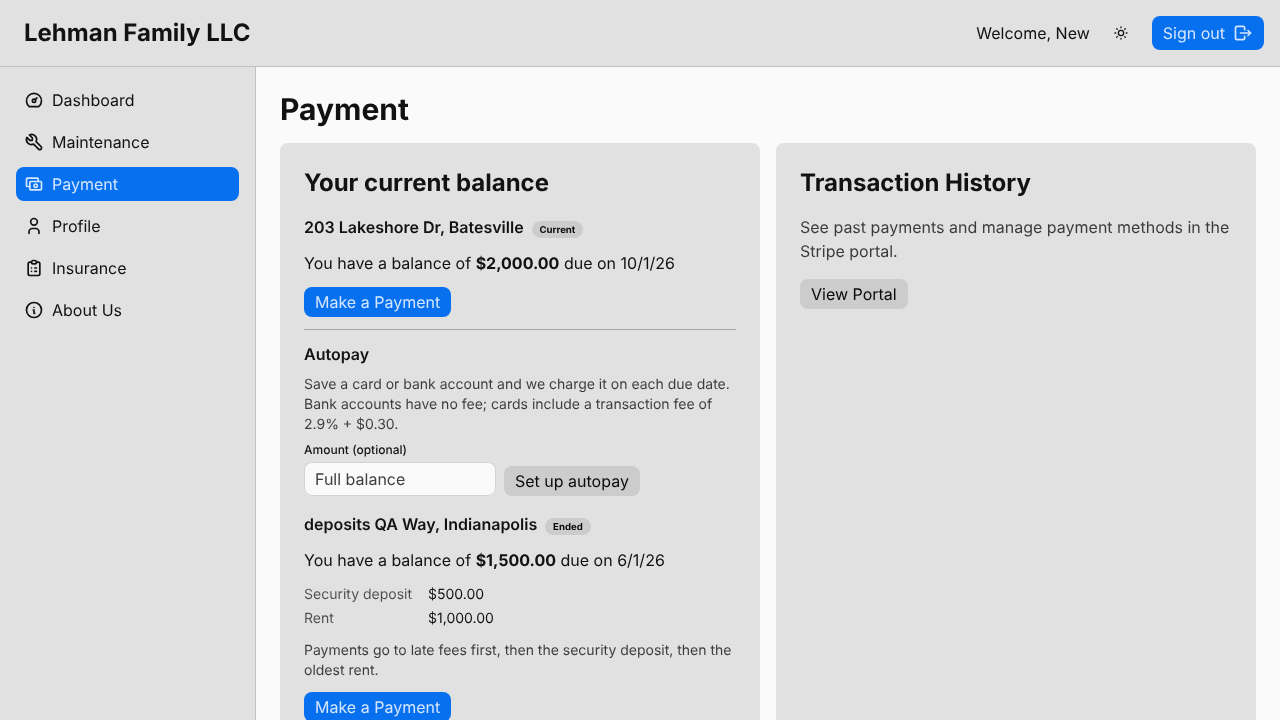
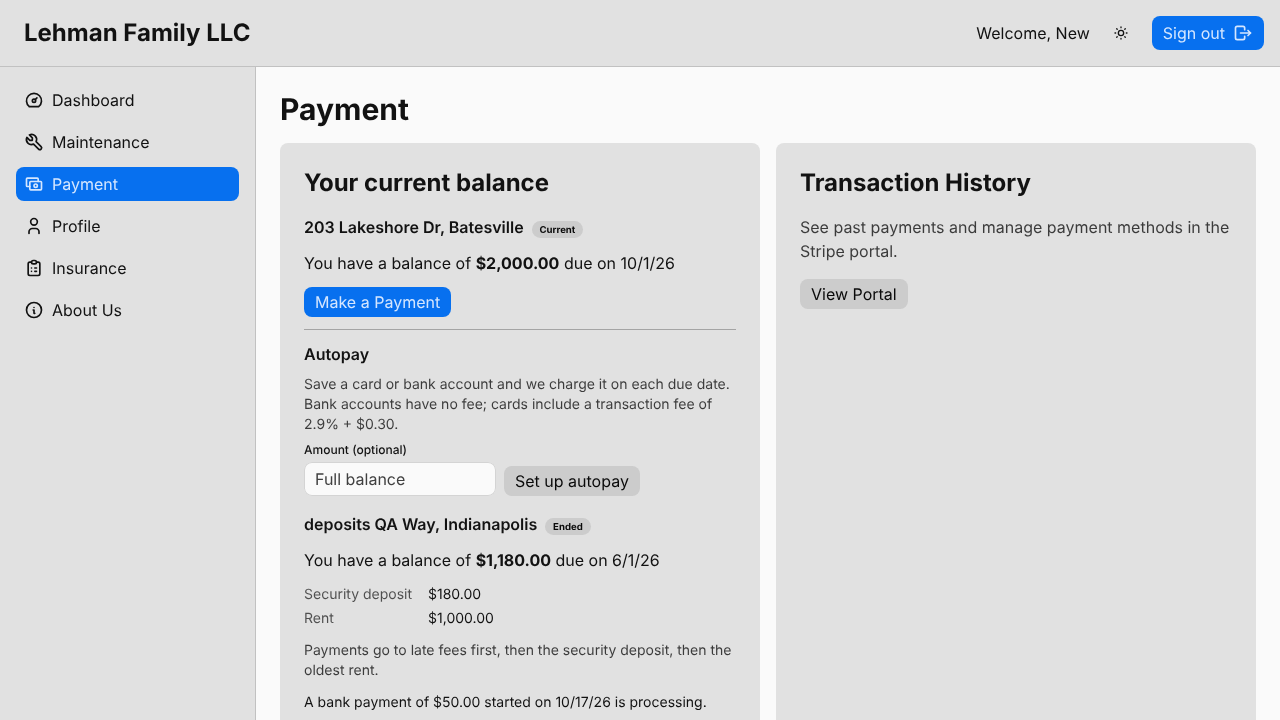
QA evidence (cycle 2, pass) for add-one-time-bank-payments; not for merging
Claude-Session: https://claude.ai/code/session_01MoQssKHmZMWrc8SjWK1vNb

Changed region(s): [[0.2188, 0.9472, 0.5312, 1.0], [0.375, 0.7639, 0.5312, 0.7944], [0.3438, 0.7944, 0.375, 0.8556]]

diff --git a/openspec/changes/add-one-time-bank-payments/qa/qa-report-cycle-2.md b/openspec/changes/add-one-time-bank-payments/qa/qa-report-cycle-2.md
@@ -1,0 +1,50 @@
+# QA report: add-one-time-bank-payments (cycle 2 of 3)
+
+- Deployed commit: `07cf890` on `develop` (dev site: https://lehman-realty-dev.web.app)
+- Run at: 2026-10-18
+- Result: **PASS** (0 failing scenarios). Cycle 1's `environment` failure is resolved, now that the dev webhook delivers the `checkout.session.*` events.
+
+## Scenarios
+| Capability | Scenario | Result | Evidence |
+|---|---|---|---|
+| rent-payments | Valid amount ($600 card: Deposit $180, Rent $420, Fee $17.70) | pass | `screenshots/rent-payments-valid-amount.png` |
+| rent-payments | Card ($964.52 gives a $28.27 fee, card only) | pass | `screenshots/rent-payments-card.png` |
+| rent-payments | Bank account ($964.52 gives a $5.00 fee, US bank account only, no Cash App) | pass | `screenshots/rent-payments-bank-account.png` |
+| rent-payments | Missing or unknown method gives 400 | pass | `screenshots/rent-payments-missing-or-unknown-method.png` |
+| rent-payments | Split across parts (no QA lease owes a late fee) | pass, partly | `screenshots/rent-payments-split-across-parts.png` |
+| rent-payments | Rent only | pass | `screenshots/rent-payments-rent-only.png` |
+| rent-payments | Not the tenant's lease gives 403 | pass | `screenshots/rent-payments-not-the-tenant-lease.png` |
+| rent-payments | Invalid amount, Amount above the balance, Fractional cents | pass | `screenshots/rent-payments-invalid-amount.png`, `screenshots/rent-payments-amount-above-the-balance.png`, `screenshots/rent-payments-fractional-cents.png` |
+| rent-payments | Return pages (cancel goes to `/payment`; bank success URL carries `?bank=`) | pass | `screenshots/rent-payments-return-pages-cancel.png` |
+| rent-payments | Over balance (dialog error, no request sent) | pass | `screenshots/rent-payments-over-balance.png` |
+| rent-payments | Method choice with fees | pass | `screenshots/rent-payments-method-choice-with-fees.png`, `screenshots/rent-payments-method-choice-continues-bank.png` |
+| rent-payments | Return from card Checkout / from a bank payment | pass | `screenshots/rent-payments-return-from-card-checkout.png`, `screenshots/pending-bank-payments-return-from-bank-checkout.png` |
+| pending-bank-payments | Checkout completed, not settled; Processing note | pass | `screenshots/pending-bank-payments-checkout-completed-not-settled.png`, `screenshots/pending-bank-payments-processing-note.png` |
+| pending-bank-payments | Payable amount reduced (dialog and server) | pass | `screenshots/pending-bank-payments-payable-amount-reduced.png` |
+| pending-bank-payments | Returned before the event (no duplicate) | pass | `screenshots/pending-bank-payments-returned-before-the-event.png` |
+| pending-bank-payments | Not the tenant's session | pass | `screenshots/pending-bank-payments-not-the-tenant-session-tenant.png`, `screenshots/pending-bank-payments-not-the-tenant-session-admin.png` |
+| pending-bank-payments | Server only (Firestore REST 401/403) | pass | `screenshots/pending-bank-payments-server-only.png` |
+| pending-bank-payments | Settles ($10 Success account: note clears, balance drops by exactly $10) | pass | `screenshots/pending-bank-payments-settles.png` |
+| pending-bank-payments | Failed bank payment: Payment fails, and Failure note ($5 Insufficient Funds: failure note within about a minute, amount payable again, no fee) | pass | `screenshots/pending-bank-payments-failed-bank-payment.png`, `screenshots/pending-bank-payments-amount-payable-again.png` |
+| pending-bank-payments | Everything on its way | not re-run (not enough spare test balance); passed in cycle 1 | cycle 1 evidence |
+| regression | Tenant and admin pages, signed-out redirects, admin `/payment` | pass | `screenshots/regression-*.png` |
+
+## Not covered by automation
+- Dated when started, and the late-fee hold: needs the daily job and dated data.
+- Autopay counting pending bank payments.
+- Lost-event check after 7 days.
+- Late and duplicate events.
+- Failure emails: no inbox access.
+- Co-tenant view: one QA tenant only.
+- Microdeposits, real ACH timing, live mode, phones.
+
+## Observations
+- (low) The old $50 payment from cycle 1, on lease `IopO2Aqo5Glp3aY5CVqX`, stays "processing" until the daily job's 7-day check (from 2026-10-24). It is dev data only.
+- (low) Stripe test-mode bank payments settle or fail in about a minute, which is not real ACH timing.
+- (low) Stripe test Checkout shows the merchant name as "Sandbox". Check that the live account's business name reads "Lehman Family LLC".
+
+## Payments made in cycle 2 (test mode, lease `IopO2Aqo5Glp3aY5CVqX`)
+- Card: $1.00, succeeded.
+- Bank, Insufficient Funds account: $5.00, failed, nothing charged.
+- Bank, Success account: $10.00, settled.
+- Final balance: $1,169.00.
